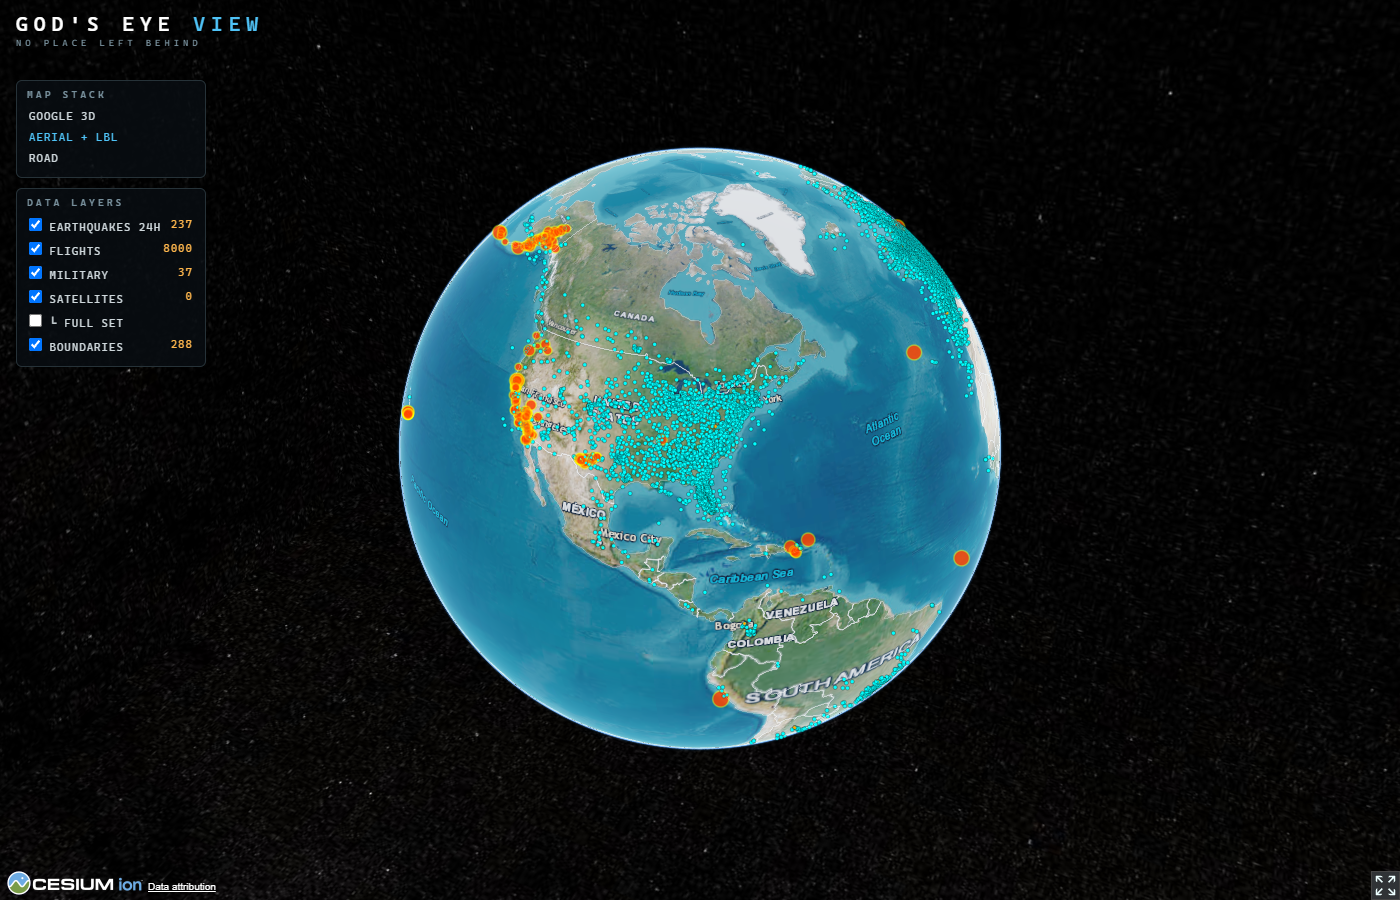
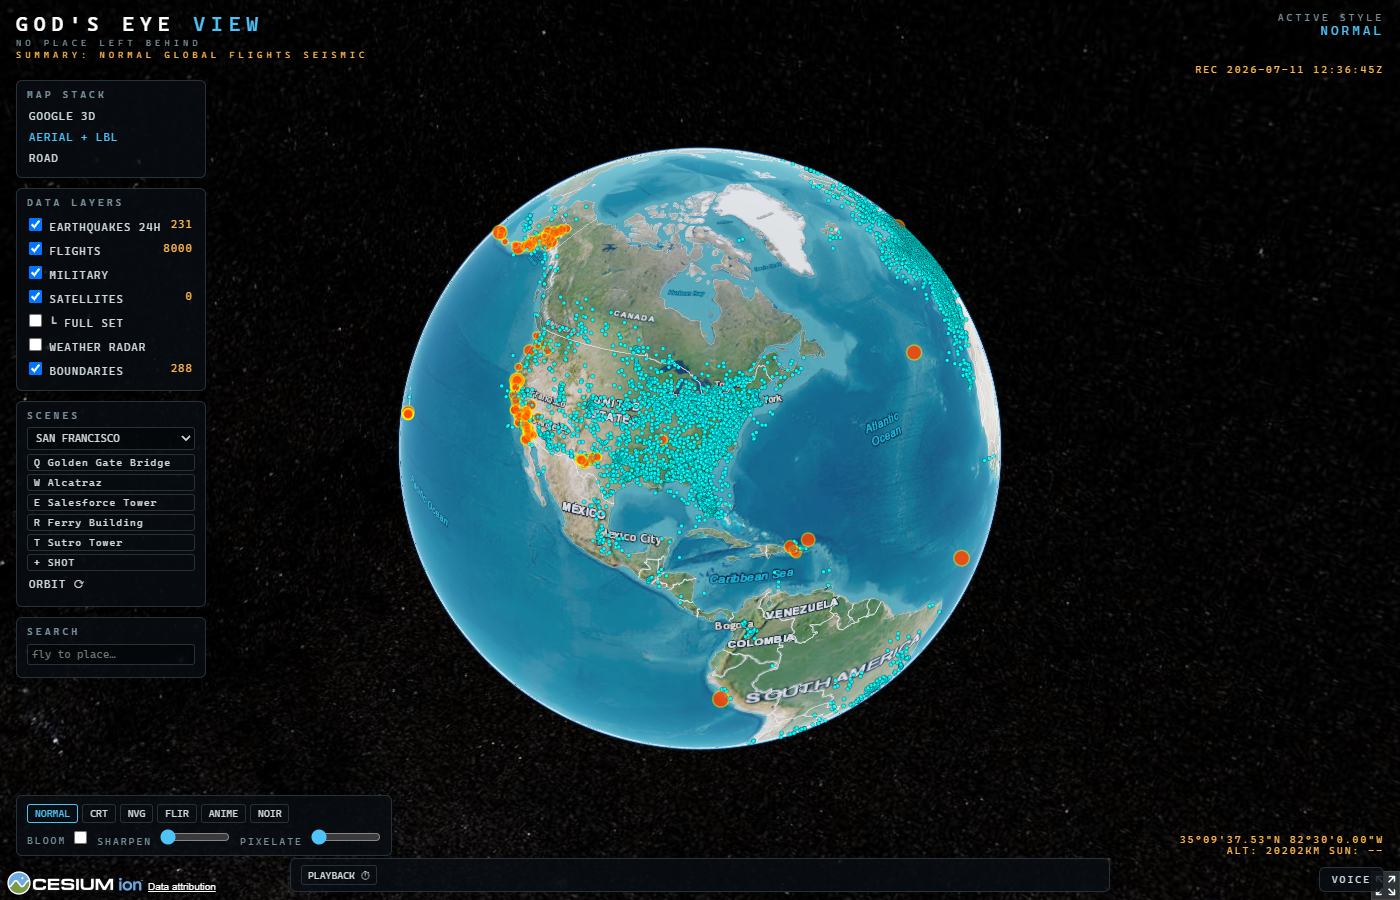
M4/M5 keyless slices: voice commands, HUD telemetry, NEXRAD weather, caption
Voice (repo-hero LISTENING affordance): Web Speech API keyword router —
show/hide layers, switch styles ("night vision"), "fly to <place>" via
the search path; button disabled where the API is missing. HUD: DMS
position + altitude readout bottom-right, REC UTC clock top-right, both
camera-derived at 4 Hz; five-word SUMMARY caption line templated from
active layers + style (CAP-49 stub, LLM upgrade env-gated later).
Weather: NOAA NEXRAD CONUS composite via Iowa Mesonet WMS as a
toggleable imagery overlay (countless layer row). Basemap switching now
removes only its own imagery layers so overlays survive mode changes.
Military mirror order fixed: airplanes.live serves CORS * so the
browser fetches it directly — proxied hops were tripping upstream bot
detection with forwarded browser headers (now stripped in the proxy).

Verified headless: all entity layers populated (45 military via direct
mirror), basemap fallback intact.

diff --git a/src/main.ts b/src/main.ts
@@ -1,4 +1,15 @@
-import { Color, GeoJsonDataSource, Ion, Rectangle, ScreenSpaceEventHandler, ScreenSpaceEventType, Viewer, defined } from 'cesium'
+import {
+  Color,
+  GeoJsonDataSource,
+  ImageryLayer,
+  Ion,
+  Rectangle,
+  ScreenSpaceEventHandler,
+  ScreenSpaceEventType,
+  Viewer,
+  WebMapServiceImageryProvider,
+  defined,
+} from 'cesium'
 import { setBasemap, type BasemapMode } from './basemaps'
 import { QuakeLayer } from './quakes'
 import { AircraftLayer } from './aircraft'
@@ -7,6 +18,8 @@ import { addLayerRow } from './layer-panel'
 import { PRESETS, StyleFx, type Preset } from './styles-fx'
 import { CITIES, captureShot, flyToPoi, flyToShot, loadShots, makeOrbit } from './scenes'
 import { initPlayback } from './playback'
+import { initHud } from './hud'
+import { initVoice } from './voice'
 import { normalizeOpenSky, normalizeAdsbMil } from './flights-normalize.mjs'
 import './style.css'
 
@@ -76,9 +89,10 @@ const military = new AircraftLayer(
   viewer,
   'military',
   {
-    // proxied (no CORS upstream); adsb.fi + airplanes.live mirror adsb.lol's readsb API —
-    // all three are volunteer-run and 502 without warning (two went down during this build)
-    urls: ['/feeds/mil', '/feeds/mil2', '/feeds/mil3'],
+    // airplanes.live serves CORS * -> direct from the browser (no proxy hop to trip bot
+    // detection); adsb.lol/adsb.fi don't -> proxied fallbacks. All volunteer-run, all
+    // 502 without warning (two went down during this build).
+    urls: ['https://api.airplanes.live/v2/mil', '/feeds/mil', '/feeds/mil2'],
     normalize: normalizeAdsbMil,
     pollMs: 60_000,
     color: Color.ORANGE,
@@ -230,6 +244,74 @@ window.addEventListener('keydown', (e) => {
   }
   if (e.key === 'h' || e.key === 'H') document.body.classList.toggle('clean-ui')
 })
+
+// -- weather radar (M5, DS-09 NOAA NEXRAD via Iowa Mesonet WMS, CONUS) -------
+const nexrad = new ImageryLayer(
+  new WebMapServiceImageryProvider({
+    url: 'https://mesonet.agron.iastate.edu/cgi-bin/wms/nexrad/n0r.cgi',
+    layers: 'nexrad-n0r',
+    parameters: { transparent: true, format: 'image/png' },
+    credit: 'NOAA NEXRAD via Iowa Environmental Mesonet',
+  }),
+  { alpha: 0.6 },
+)
+nexrad.show = false
+viewer.imageryLayers.add(nexrad)
+addLayerRow(
+  'WEATHER RADAR',
+  {
+    get shown() {
+      return nexrad.show
+    },
+    set shown(v: boolean) {
+      nexrad.show = v
+    },
+  },
+  { noCount: true }, // imagery overlay — no entity count
+)
+
+// -- HUD telemetry + voice + AI caption (M4/M5 keyless slices) ---------------
+initHud(viewer)
+const summary = document.getElementById('hud-summary')!
+function refreshSummary() {
+  // CAP-49 template caption; LLM upgrade is env-gated later (no key in browser by default)
+  const active = [
+    flights.shown && flights.count > 0 ? 'FLIGHTS' : '',
+    military.shown && military.count > 0 ? 'MILITARY' : '',
+    sats.shown && sats.count > 0 ? 'SATELLITES' : '',
+    quakes.shown && quakes.count > 0 ? 'SEISMIC' : '',
+  ].filter(Boolean)
+  summary.textContent = `SUMMARY: ${fx.preset} GLOBAL ${active.slice(0, 3).join(' ') || 'STANDBY'}`
+}
+window.setInterval(refreshSummary, 5_000)
+
+initVoice(
+  {
+    setLayer(name, on) {
+      const map: Record<string, { shown: boolean }> = {
+        flights,
+        military,
+        satellites: sats,
+        earthquakes: quakes,
+      }
+      const layer = map[name]
+      if (!layer) return false
+      layer.shown = on
+      return true
+    },
+    setStyle(name) {
+      const p = PRESETS.find((x) => x.toLowerCase() === name)
+      if (!p) return false
+      setPreset(p)
+      return true
+    },
+    goTo(place) {
+      searchBox.value = place
+      searchBox.dispatchEvent(new KeyboardEvent('keydown', { key: 'Enter' }))
+    },
+  },
+  (state) => (status.textContent = state),
+)
 
 // -- click-to-inspect (satellite orbit draw, CAP-11) -----------------------
 new ScreenSpaceEventHandler(viewer.scene.canvas).setInputAction((click: { position: import('cesium').Cartesian2 }) => {

diff --git a/src/voice.ts b/src/voice.ts
@@ -1,0 +1,90 @@
+// Voice command interface (CAP: voice, repo hero "STOP | LISTENING — Ask or command").
+// Web Speech API — Edge/Chrome only, needs mic permission; button reflects availability.
+// ponytail: keyword router, not NLU; the M4 LLM upgrade routes free text through a model.
+
+type SR = { new (): SpeechRecognitionLike }
+interface SpeechRecognitionLike {
+  continuous: boolean
+  interimResults: boolean
+  lang: string
+  onresult: ((e: { results: ArrayLike<ArrayLike<{ transcript: string }>>; resultIndex: number }) => void) | null
+  onend: (() => void) | null
+  onerror: ((e: { error: string }) => void) | null
+  start(): void
+  stop(): void
+}
+
+export interface VoiceCommands {
+  setLayer(name: string, on: boolean): boolean
+  setStyle(name: string): boolean
+  goTo(place: string): void
+}
+
+export function initVoice(cmds: VoiceCommands, onState: (state: string) => void) {
+  const w = window as unknown as { SpeechRecognition?: SR; webkitSpeechRecognition?: SR }
+  const Ctor = w.SpeechRecognition ?? w.webkitSpeechRecognition
+  const btn = document.getElementById('voice-toggle') as HTMLButtonElement
+  if (!Ctor) {
+    btn.disabled = true
+    btn.textContent = 'VOICE N/A'
+    return
+  }
+
+  let active = false
+  const rec = new Ctor()
+  rec.continuous = true
+  rec.interimResults = false
+  rec.lang = 'en-US'
+
+  rec.onresult = (e) => {
+    const text = e.results[e.results.length - 1][0].transcript.trim().toLowerCase()
+    onState(`HEARD: ${text.toUpperCase()}`)
+    handle(text)
+  }
+  rec.onend = () => {
+    if (active) rec.start() // keep listening until STOP
+  }
+  rec.onerror = (e) => onState(`VOICE ERR: ${e.error.toUpperCase()}`)
+
+  function handle(text: string) {
+    const on = /\b(show|enable|turn on)\b/.test(text)
+    const off = /\b(hide|disable|turn off)\b/.test(text)
+    for (const layer of ['flights', 'military', 'satellites', 'earthquakes', 'boundaries']) {
+      if (text.includes(layer) && (on || off)) {
+        if (cmds.setLayer(layer, on)) onState(`${layer.toUpperCase()} ${on ? 'ON' : 'OFF'}`)
+        return
+      }
+    }
+    for (const style of ['normal', 'crt', 'night vision', 'nvg', 'flir', 'anime', 'noir']) {
+      if (text.includes(style)) {
+        const mapped = style === 'night vision' ? 'nvg' : style
+        if (cmds.setStyle(mapped)) onState(`STYLE ${mapped.toUpperCase()}`)
+        return
+      }
+    }
+    const go = text.match(/(?:go to|fly to|take me to)\s+(.+)/)
+    if (go) {
+      cmds.goTo(go[1])
+      onState(`FLYING TO ${go[1].toUpperCase()}`)
+    }
+  }
+
+  btn.onclick = () => {
+    active = !active
+    if (active) {
+      try {
+        rec.start()
+        btn.textContent = 'LISTENING ●'
+        btn.classList.add('active')
+        onState('LISTENING — ASK OR COMMAND')
+      } catch {
+        active = false
+      }
+    } else {
+      rec.stop()
+      btn.textContent = 'VOICE'
+      btn.classList.remove('active')
+      onState('')
+    }
+  }
+}

diff --git a/vite.config.ts b/vite.config.ts
@@ -1,32 +1,31 @@
-import { defineConfig } from 'vite'
+import { defineConfig, type ProxyOptions } from 'vite'
 import cesium from 'vite-plugin-cesium'
 
-// OpenSky + adsb.lol don't serve CORS headers for third-party origins, so the app
-// calls same-origin /feeds/* and vite proxies (dev AND preview). A production deploy
-// needs the same two routes on its host (thin proxy per docs/02-architecture.md).
+// OpenSky + the military-ADS-B mirrors don't serve CORS headers for third-party
+// origins, so the app calls same-origin /feeds/* and vite proxies (dev AND preview).
+// A production deploy needs the same routes on its host (thin proxy, docs/02).
+// Browser headers (origin/referer/sec-*) forwarded through node TLS trip bot
+// detection on the volunteer mirrors — strip them so the request is a clean s2s GET.
+function feed(target: string, path: string): ProxyOptions {
+  return {
+    target,
+    changeOrigin: true,
+    rewrite: () => path,
+    headers: { 'User-Agent': 'godseye/0.1 (+https://github.com/javin23863/godseye)' },
+    configure(proxy) {
+      proxy.on('proxyReq', (proxyReq) => {
+        for (const h of ['origin', 'referer', 'cookie']) proxyReq.removeHeader(h)
+        for (const h of proxyReq.getHeaderNames()) if (h.startsWith('sec-')) proxyReq.removeHeader(h)
+      })
+    },
+  }
+}
+
 const proxy = {
-  '/feeds/opensky': {
-    target: 'https://opensky-network.org',
-    changeOrigin: true,
-    rewrite: () => '/api/states/all',
-  },
-  '/feeds/mil': {
-    target: 'https://api.adsb.lol',
-    changeOrigin: true,
-    rewrite: () => '/v2/mil',
-  },
-  '/feeds/mil2': {
-    target: 'https://opendata.adsb.fi',
-    changeOrigin: true,
-    rewrite: () => '/api/v2/mil',
-    headers: { 'User-Agent': 'godseye/0.1 (+https://github.com/javin23863/godseye)' },
-  },
-  '/feeds/mil3': {
-    target: 'https://api.airplanes.live',
-    changeOrigin: true,
-    rewrite: () => '/v2/mil',
-    headers: { 'User-Agent': 'godseye/0.1 (+https://github.com/javin23863/godseye)' },
-  },
+  '/feeds/opensky': feed('https://opensky-network.org', '/api/states/all'),
+  '/feeds/mil': feed('https://api.adsb.lol', '/v2/mil'),
+  '/feeds/mil2': feed('https://opendata.adsb.fi', '/api/v2/mil'),
+  '/feeds/mil3': feed('https://api.airplanes.live', '/v2/mil'),
 }
 
 export default defineConfig({

diff --git a/src/hud.ts b/src/hud.ts
@@ -1,0 +1,30 @@
+// HUD corner telemetry (04-ui-spec): camera-derived readouts, updated per frame-ish.
+// NRO-cosplay fields (KH11/OPS/ORB/PASS) are static set-dressing per the UI spec.
+import { Math as CMath, Viewer } from 'cesium'
+
+function toDms(deg: number, posHemi: string, negHemi: string): string {
+  const hemi = deg >= 0 ? posHemi : negHemi
+  const a = Math.abs(deg)
+  const d = Math.floor(a)
+  const m = Math.floor((a - d) * 60)
+  const s = ((a - d) * 60 - m) * 60
+  return `${d}°${String(m).padStart(2, '0')}'${s.toFixed(2)}"${hemi}`
+}
+
+export function initHud(viewer: Viewer) {
+  const posEl = document.getElementById('hud-pos')!
+  const altEl = document.getElementById('hud-alt')!
+  const recEl = document.getElementById('hud-rec')!
+
+  let last = 0
+  viewer.clock.onTick.addEventListener(() => {
+    const now = performance.now()
+    if (now - last < 250) return // 4 Hz is plenty for a readout
+    last = now
+    const carto = viewer.camera.positionCartographic
+    posEl.textContent = `${toDms(CMath.toDegrees(carto.latitude), 'N', 'S')} ${toDms(CMath.toDegrees(carto.longitude), 'E', 'W')}`
+    const altM = carto.height
+    altEl.textContent = `ALT: ${altM > 100_000 ? `${Math.round(altM / 1000)}KM` : `${Math.round(altM)}M`}  SUN: --`
+    recEl.textContent = `REC ${new Date().toISOString().replace('T', ' ').slice(0, 19)}Z`
+  })
+}

diff --git a/src/style.css b/src/style.css
@@ -85,3 +85,23 @@ body.clean-ui #panel, body.clean-ui #style-dock, body.clean-ui #status { display
 #timeline.open #pb-play, #timeline.open #pb-speed, #timeline.open #pb-slider, #timeline.open #pb-time { visibility: visible; }
 body.playback #pb-toggle { color: #ff5252; border-color: #ff5252; }
 #pb-time { color: #ffb74d; min-width: 150px; text-align: right; }
+
+#hud-summary { color: #ffb74d !important; margin-top: 4px; }
+#hud-tl {
+  position: absolute; top: 64px; right: 16px; font-size: 10px; letter-spacing: 2px;
+  color: #ffb74d; text-shadow: 0 0 6px rgba(0, 0, 0, 0.9); pointer-events: none;
+}
+#hud-bl {
+  position: absolute; bottom: 44px; right: 16px; text-align: right;
+  font-size: 10px; letter-spacing: 2px; color: #ffb74d;
+  text-shadow: 0 0 6px rgba(0, 0, 0, 0.9); pointer-events: none;
+}
+#voice-toggle {
+  position: absolute; bottom: 8px; right: 16px;
+  font: inherit; font-size: 10px; letter-spacing: 2px; color: #cfd8dc;
+  background: rgba(8, 14, 18, 0.82); border: 1px solid #263238;
+  border-radius: 6px; padding: 6px 12px; cursor: pointer;
+}
+#voice-toggle.active { color: #69f0ae; border-color: #69f0ae; }
+#voice-toggle:disabled { color: #455a64; cursor: default; }
+body.clean-ui #hud-tl, body.clean-ui #hud-bl, body.clean-ui #voice-toggle, body.clean-ui #timeline { display: none; }

diff --git a/src/basemaps.ts b/src/basemaps.ts
@@ -31,6 +31,7 @@ const LABELS = () =>
 const ROAD = () => new OpenStreetMapImageryProvider({ url: 'https://tile.openstreetmap.org/' })
 
 let google3d: Cesium3DTileset | null = null
+let ownLayers: ImageryLayer[] = [] // only remove what we added — overlays (e.g. weather) live in the same collection
 
 async function loadGoogle3d(viewer: Viewer): Promise<Cesium3DTileset | null> {
   if (google3d) return google3d
@@ -55,7 +56,8 @@ async function loadGoogle3d(viewer: Viewer): Promise<Cesium3DTileset | null> {
 /** Switch basemap without reload. Returns the mode actually applied (google3d falls back to aerial). */
 export async function setBasemap(viewer: Viewer, mode: BasemapMode): Promise<BasemapMode> {
   const layers = viewer.imageryLayers
-  layers.removeAll()
+  for (const l of ownLayers) layers.remove(l, true)
+  ownLayers = []
   if (google3d) google3d.show = false
 
   if (mode === 'google3d') {
@@ -66,7 +68,13 @@ export async function setBasemap(viewer: Viewer, mode: BasemapMode): Promise<Bas
     }
     mode = 'aerial' // graceful fallback (roadmap risk R1)
   }
-  layers.add(new ImageryLayer(mode === 'road' ? ROAD() : AERIAL()))
-  if (mode === 'aerial') layers.add(new ImageryLayer(LABELS()))
+  const base = new ImageryLayer(mode === 'road' ? ROAD() : AERIAL())
+  layers.add(base, 0)
+  ownLayers.push(base)
+  if (mode === 'aerial') {
+    const lbl = new ImageryLayer(LABELS())
+    layers.add(lbl, 1)
+    ownLayers.push(lbl)
+  }
   return mode
 }

diff --git a/src/layer-panel.ts b/src/layer-panel.ts
@@ -3,16 +3,22 @@ export interface PanelLayer {
   shown: boolean
 }
 
-export function addLayerRow(name: string, layer: PanelLayer): (count: number) => void {
+export function addLayerRow(name: string, layer: PanelLayer, opts?: { noCount?: boolean }): (count: number) => void {
   const layersDiv = document.getElementById('layers')!
   const label = document.createElement('label')
   label.className = 'layer-row'
   const box = document.createElement('input')
   box.type = 'checkbox'
   box.checked = layer.shown
+  label.append(box, ` ${name} `)
+  if (opts?.noCount) {
+    layersDiv.appendChild(label)
+    box.onchange = () => (layer.shown = box.checked)
+    return () => {}
+  }
   const countSpan = document.createElement('span')
   countSpan.className = 'count'
-  label.append(box, ` ${name} `, countSpan)
+  label.append(countSpan)
   layersDiv.appendChild(label)
   box.onchange = () => (layer.shown = box.checked)
   return (count) => (countSpan.textContent = String(count))

diff --git a/index.html b/index.html
@@ -12,7 +12,11 @@
   <header id="brand">
     <h1>GOD'S EYE <span>VIEW</span></h1>
     <p>NO PLACE LEFT BEHIND</p>
+    <p id="hud-summary"></p>
   </header>
+  <div id="hud-tl"><span id="hud-rec"></span></div>
+  <div id="hud-bl"><span id="hud-pos"></span><br /><span id="hud-alt"></span></div>
+  <button id="voice-toggle">VOICE</button>
   <div id="timeline">
     <button id="pb-toggle">PLAYBACK ⏱</button>
     <button id="pb-play">▶</button>